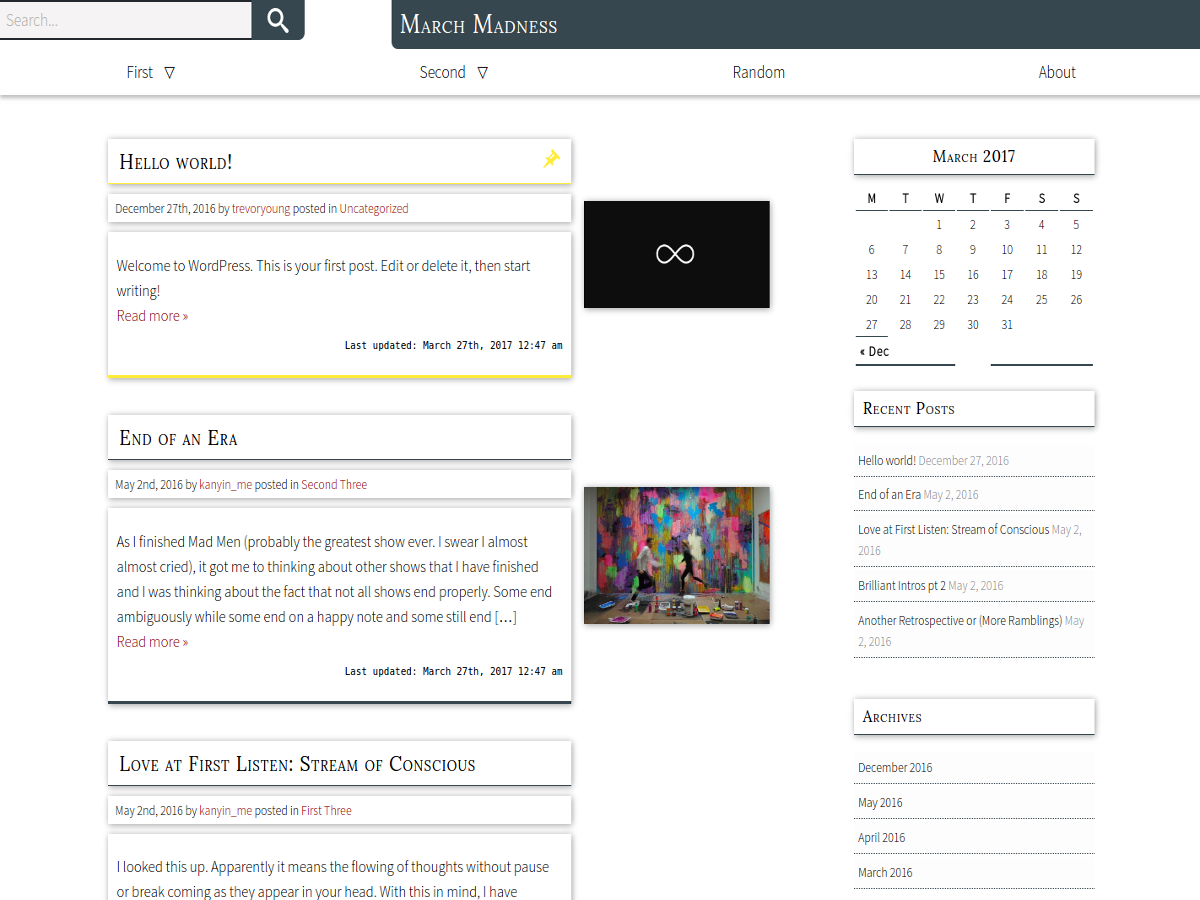
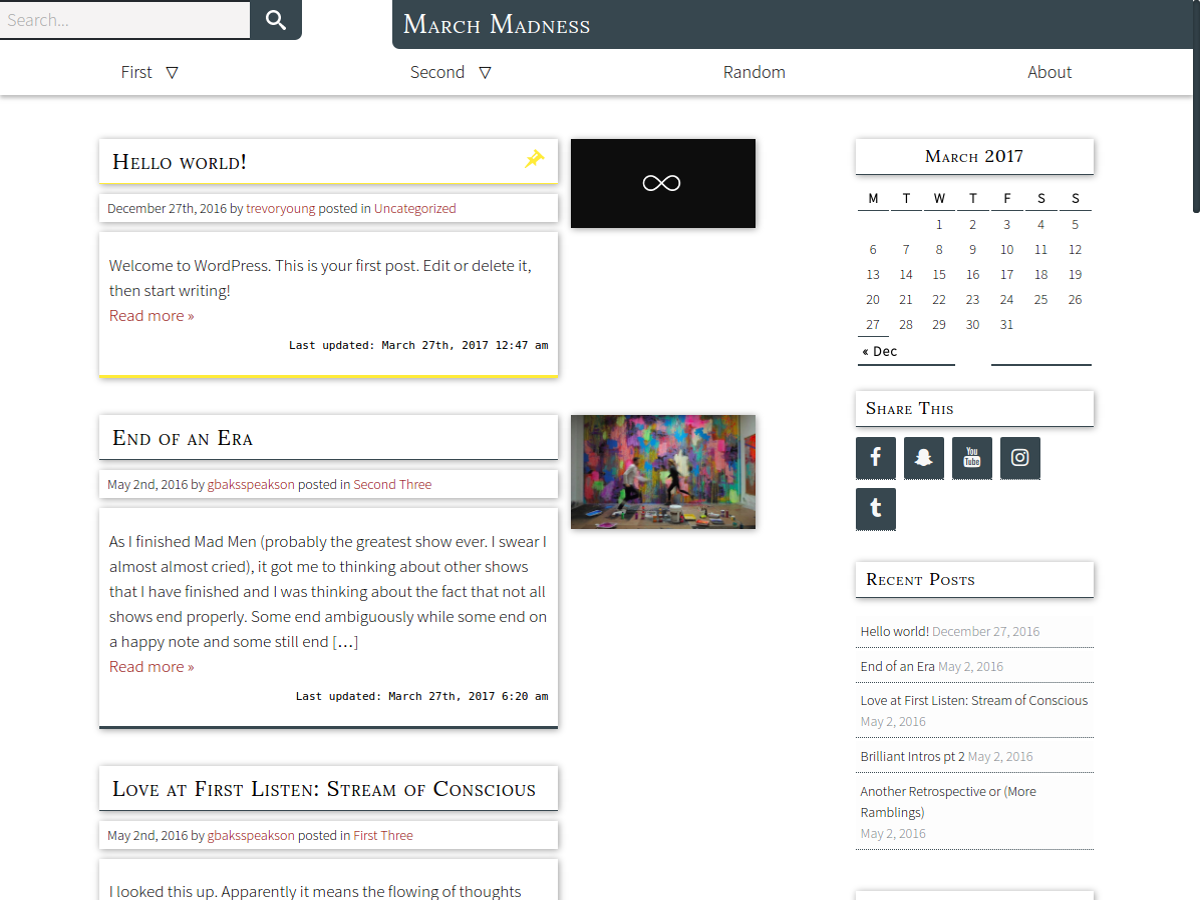
Changed Archive structures, used multi-column layout; pretty much done;

diff --git a/style.css b/style.css
@@ -1,6 +1,6 @@
 /*
 Theme Name: March
-Theme URI: https://localhost/wordpress
+Theme URI: https://wordpress.org/themes/
 Author: Trevor Young
 Author URI: https://ampro.me
 Description: Wordpress minimal theme, best suited for blogs.
@@ -93,6 +93,31 @@ ul.sub-menu a,
 .icon {
   width: 0.9em;
   height: 0.9em;
+}
+/* Scrollbar
+*/
+/* Scrollbar */
+::-webkit-scrollbar {
+  width: 7px;
+}
+
+/* Track */
+::-webkit-scrollbar-track {
+  -webkit-box-shadow: inset 0 0 5px rgb(255, 255, 255);
+  -webkit-border-radius: 5px;
+  border-radius: 5px;
+}
+
+/* Handle */
+::-webkit-scrollbar-thumb {
+  -webkit-border-radius: 5px;
+  border-radius: 5px;
+  background: #37474f;
+  -webkit-box-shadow: inset 0 0 6px rgba(0, 0, 0, 0.5);
+}
+
+::-webkit-scrollbar-thumb:window-inactive {
+  background: #37474f;
 }
 
 /**
@@ -345,7 +370,7 @@ ul.sub-menu a:hover {
   border-bottom: 2px solid #37474f;
   padding: 2px 5px;
   letter-spacing: 1px;
-}
+      }
 .widget-item #wp-calendar #prev a,
 .widget-item #wp-calendar #next a {
   border-bottom: 0;
@@ -437,7 +462,6 @@ ul.sub-menu a:hover {
   fill: #ffeb38;
 }
  .format-standard .post-thumbnail {
-  align-self: center;
   order: 2;
   width: 28%;
   padding: 0px;
@@ -524,6 +548,7 @@ ul.sub-menu a:hover {
   width: 100%;
   text-align: center;
   font-family: monospace;
+  order: 2;
 }
 .page-numbers {
   border-top: 2px solid #37474f;
@@ -910,23 +935,21 @@ ul.sub-menu a:hover {
 @media all  and (max-width:40.063em){
   /* Header */
   .site-nav.fixed {
-    width:100%;
+    width:65%;
   }
   .hd-search.fixed {
-    top:0px; /* 70px */
-    left:34.1px;
+    top:0;
+    left:31.1px;
   }
   .hd-top {
-    justify-content:space-between;
-    position: fixed;
+    flex-flow: row wrap;
     width: 100%;
-  }
-  .hd-search,
-  .hd-title {
-    width:45%;
   }
   .hd-search {
     margin-right:0em;
+    order: 2;
+    width: 85%;
+    font-size: .75em;
   }
   .hd-search #s,
   .hd-search #searchsubmit,
@@ -940,11 +963,15 @@ ul.sub-menu a:hover {
   .hd-title {
     padding-left:0.5em;
     font-size: 1em;
+    order: 1;
+    width: 100%;
+    border-radius: 0;
+    text-align: center;
   }
   .hd-search #s {
     width:10%;
     transition: width .5s ease-in 0s;
-    padding-top: 7px;
+    padding-top: 8px;
     padding-bottom: 4px;
   }
   .hd-search #s:focus {
@@ -952,7 +979,7 @@ ul.sub-menu a:hover {
     outline: none;
   }
   .hd-search #searchsubmit {
-    width:18%;
+    width:14%;
     padding: 10px 4px 6px;
   }
 
@@ -1010,8 +1037,11 @@ ul.sub-menu a:hover {
     display: block;
     cursor:pointer;
     border-bottom: 0px;
-    color: #F3F3F5 ;
+    color: #F3F3F5;
+    order: 2;
+    font-size: .77em;
   }
+
   a.menu-icon:focus {
     text-decoration: none;
   }
@@ -1194,12 +1224,13 @@ landscape 800x480 or 854x480 phones */
   }
   .page-content .content,
   .page-content .sidebar {
-    flex-flow: row wrap;
-    width: 100%;
   }
   .page-content .content {
     order: 1;
-    padding: 0 15px;
+    display: block;
+    -webkit-column-count: 2;
+    column-count: 2;
+    width: 95%;
   }
   .page-content .sidebar {
     margin-left: 0;
@@ -1209,6 +1240,8 @@ landscape 800x480 or 854x480 phones */
     justify-content: space-between;
     padding: 0 1em 10px;
     order: 2;
+    flex-flow: row wrap;
+    width: 100%;
   }
   .widget-item .widget-title,
   .widget-item #wp-calendar caption {
@@ -1242,7 +1275,7 @@ landscape 800x480 or 854x480 phones */
   }
   .widget-item #wp  -calendar thead tr {  }
   .format-standard {
-    width: 47%;
+    width: 100%;
   }
   #post #post-title,
   .post-title {

diff --git a/resources/js/march_styling_script.js b/resources/js/march_styling_script.js
@@ -31,9 +31,9 @@ jQuery(document).ready(function($) { /* Doc.Ready Begin */
     // position:fixed navbar and searchbar scroll
     $(window).on('scroll', function(e){
       if ($(document).scrollTop() > $('.hd-top').height()) {
-        $('.site-nav, .hd-search').addClass('fixed');
+        $('.site-nav, .hd-search, .menu-icon').addClass('fixed');
       } else {
-        $('.site-nav, .hd-search').removeClass('fixed');
+        $('.site-nav, .hd-search, .menu-icon').removeClass('fixed');
       }
     });
 

diff --git a/search.php b/search.php
@@ -3,7 +3,7 @@
 <section class="page-content index-page">
     <!-- gets the title to an archive -->
     <h2 class="archive-title">You searched for: <span class="search-query-text"><?php the_search_query(); ?></span></h2>
-  <section class="content clearfix">
+  <section class="content march-index-layout clearfix">
     <?php
     /* WP Loop */
     if(have_posts()):
@@ -15,11 +15,19 @@
       printf( __( '%s', 'march' ), sprintf( '<h2 class="no-content">%s</h2>', 'No Content Found' ));
 
     endif;
-    /* Pagination for archives */
-    get_template_part('templates/archive-pagination.php');
     ?>
     </section>
-  <?php get_sidebar(); ?>
+
+    <?php
+    /* Pagination for archives */
+    the_posts_pagination( array(
+      'mid_size' => 2,
+      'prev_text' => __( '<span class="multi-posts-nav">Previous</span>', 'march' ),
+      'next_text' => __( '<span class="multi-posts-nav">Next</span>', 'march' ),
+    ) );
+
+    /* Sidebar */
+    get_sidebar(); ?>
 </section>
 
 <?php get_footer(); ?>

diff --git a/archive.php b/archive.php
@@ -13,7 +13,7 @@
       elseif ( is_year() ) echo get_the_date('Y').'\'s Archive';
       else echo 'Archive';
     ?></h2>
-  <section class="content clearfix">
+  <section class="content march-index-layout clearfix">
     <?php
     /* WP Loop */
     if(have_posts()):
@@ -24,11 +24,19 @@
     else:
       printf( __( '%s', 'march' ), sprintf( '<h2 class="no-content">%s</h2>', 'No Content Found' ));
     endif;
-    /* Pagination for archives */
-    get_template_part('templates/archive-pagination.php');
     ?>
     </section>
-  <?php get_sidebar(); ?>
+
+    <?php
+    /* Pagination for archives */
+    the_posts_pagination( array(
+      'mid_size' => 2,
+      'prev_text' => __( '<span class="multi-posts-nav">Previous</span>', 'march' ),
+      'next_text' => __( '<span class="multi-posts-nav">Next</span>', 'march' ),
+    ) );
+
+    /* Sidebar */
+    get_sidebar(); ?>
 </section>
 
 <?php get_footer(); ?>

diff --git a/index.php b/index.php
@@ -1,7 +1,7 @@
 <?php get_header(); ?>
 
 <section class="page-content index-page">
-  <section class="content clearfix">
+  <section class="content march-index-layout clearfix">
     <?php
     if(have_posts()):
       while(have_posts()):
@@ -11,15 +11,18 @@
     else:
       printf( __( '%s', 'march' ), sprintf( '<h2 class="no-content">%s</h2>', 'No Content Found' ));
     endif;
+    ?>
+    </section>
+    <?php
     /* Pagination for archives */
     the_posts_pagination( array(
       'mid_size' => 2,
       'prev_text' => __( '<span class="multi-posts-nav">Previous</span>', 'march' ),
       'next_text' => __( '<span class="multi-posts-nav">Next</span>', 'march' ),
     ) );
-    ?>
-    </section>
-  <?php get_sidebar(); ?>
+
+    /* Sidebar */
+    get_sidebar(); ?>
 </section>
 
 <?php get_footer(); ?>

diff --git a/functions.php b/functions.php
@@ -5,7 +5,7 @@ function march_resources(){
   // Main Stylesheet
   wp_enqueue_style('style', get_stylesheet_uri());
   // Main Script
-  wp_enqueue_script('script', get_template_directory_uri().'/resources/js/script.js', array('jquery'), '', true );
+  wp_enqueue_script('script', get_template_directory_uri().'/resources/js/march_styling_script.js', array('jquery'), '', true );
 }
 add_action('wp_enqueue_scripts', 'march_resources');
 
@@ -172,7 +172,11 @@ function march_customizer_css(){ ?>
 .hd-title {
   background-color: <?php echo get_theme_mod('main_color'); ?>;
 }
-
+/* Scrollbar Handle */
+::-webkit-scrollbar-thumb,
+::-webkit-scrollbar-thumb:window-inactive {
+  background-color: <?php echo get_theme_mod('main_color'); ?>;
+}
 .widget-item .tagcloud a,
 .widget-item ul li,
 .widget-item select,
